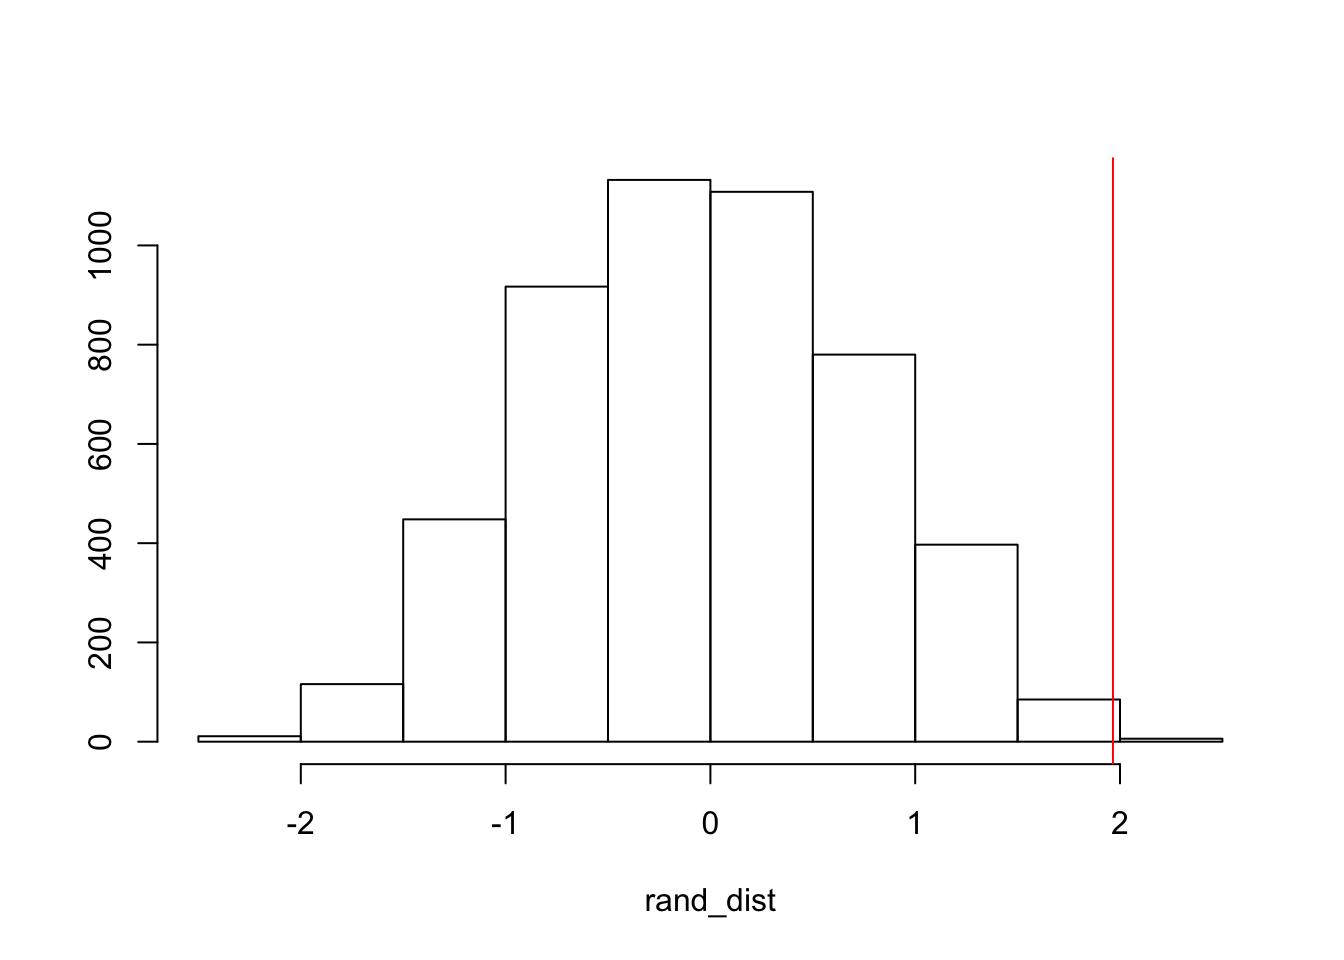
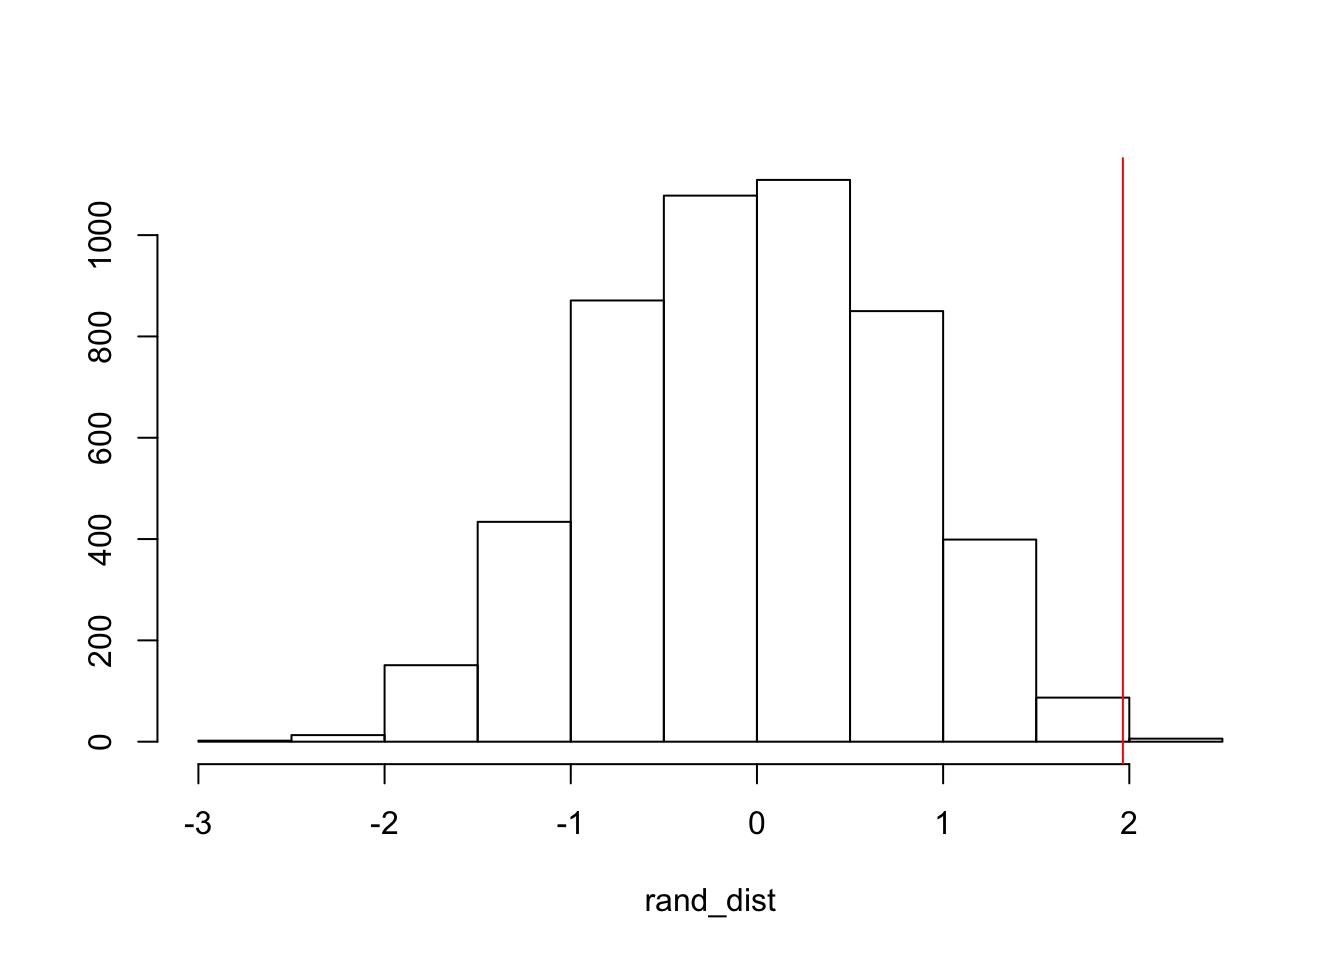
any message, but you must have a message

diff --git a/content/project2.html b/content/project2.html
@@ -1,7 +1,7 @@
 ---
 title: "Project 2:Modeling,Testing,and Predicting"
 author: "Yemariamwork Engidaw"
-date: "05/03/2020"
+date: "2020-05-03"
 output:
   pdf_document: default
   html_document: default
@@ -107,23 +107,23 @@ head(cron)</code></pre>
 <pre class="r"><code>head(perm1&lt;-data.frame(condition=cron$condition,adevent=sample(cron$adevent)))</code></pre>
 <pre><code>##   condition adevent
 ## 1   placebo       0
-## 2   placebo       2
-## 3   placebo       2
+## 2   placebo       4
+## 3   placebo       0
 ## 4   placebo       0
-## 5   placebo       0
-## 6   placebo       2</code></pre>
+## 5   placebo       2
+## 6   placebo       0</code></pre>
 <pre class="r"><code>perm1%&gt;%group_by(condition)%&gt;%summarize(means=mean(adevent))%&gt;%summarize(`mean_diff:`=diff(means))</code></pre>
 <pre><code>## # A tibble: 1 x 1
 ##   `mean_diff:`
 ##          &lt;dbl&gt;
-## 1         -0.6</code></pre>
+## 1          0.1</code></pre>
 <pre class="r"><code>rand_dist&lt;-vector()
 for(i in 1:5000){
 new&lt;-data.frame(adevent=sample(cron$adevent),condition=cron$condition)
 rand_dist[i]&lt;-mean(new[new$condition==&quot;d1&quot;,]$adevent)-
 mean(new[new$condition==&quot;placebo&quot;,]$adevent)}
 mean(rand_dist&gt;1.965542 | rand_dist&lt; -1.965542)</code></pre>
-<pre><code>## [1] 0.0038</code></pre>
+<pre><code>## [1] 0.0054</code></pre>
 <pre class="r"><code>{hist(rand_dist,main=&quot;&quot;,ylab=&quot;&quot;); abline(v = 1.965542,col=&quot;red&quot;)}</code></pre>
 <p><img src="/project2_files/figure-html/unnamed-chunk-2-2.png" width="672" /></p>
 <pre class="r"><code>t.test(data=cron,adevent~condition)</code></pre>
@@ -333,7 +333,7 @@ coef(fit)
 })
 samp_distn%&gt;%t%&gt;%as.data.frame%&gt;%summarize_all(sd)</code></pre>
 <pre><code>##   (Intercept)        BMI      weight   BMI:weight
-## 1  0.02988295 0.01076596 0.003337542 0.0002082247</code></pre>
+## 1  0.03061301 0.01084088 0.003341042 0.0002018651</code></pre>
 <pre class="r"><code>fit2&lt;-lm(nrAdvE.cat~BMI*weight,data=CrohnD1)
 summary(fit2)</code></pre>
 <pre><code>## 
@@ -367,15 +367,15 @@ coef(fit2)
 })
 resid_resamp%&gt;%t%&gt;%as.data.frame%&gt;%summarize_all(sd)</code></pre>
 <pre><code>##   (Intercept)         BMI      weight   BMI:weight
-## 1  0.02876237 0.009073605 0.003164596 0.0002299999</code></pre>
+## 1  0.02810296 0.009260475 0.003183604 0.0002330787</code></pre>
 <pre class="r"><code>resid_resamp%&gt;%t%&gt;%as.data.frame%&gt;%gather%&gt;%group_by(key)%&gt;% summarize(lower=quantile(value,.025), upper=quantile(value,0.975))</code></pre>
 <pre><code>## # A tibble: 4 x 3
 ##   key             lower     upper
 ##   &lt;chr&gt;           &lt;dbl&gt;     &lt;dbl&gt;
-## 1 (Intercept)  0.0617    0.173   
-## 2 BMI          0.0204    0.0572  
-## 3 BMI:weight  -0.000717  0.000163
-## 4 weight      -0.0150   -0.00235</code></pre>
+## 1 (Intercept)  0.0619    0.172   
+## 2 BMI          0.0194    0.0575  
+## 3 BMI:weight  -0.000719  0.000205
+## 4 weight      -0.0151   -0.00218</code></pre>
 <pre class="r"><code>coeftest(fit2)[,1:2]</code></pre>
 <pre><code>##                  Estimate   Std. Error
 ## (Intercept)  0.1135856789 0.0290633392
@@ -390,10 +390,10 @@ resid_resamp%&gt;%t%&gt;%as.data.frame%&gt;%summarize_all(sd)</code></pre>
 ## BMI:weight  -0.0003378149 0.0001728742</code></pre>
 <pre class="r"><code>samp_distn%&gt;%t%&gt;%as.data.frame%&gt;%summarize_all(sd)</code></pre>
 <pre><code>##   (Intercept)        BMI      weight   BMI:weight
-## 1  0.02988295 0.01076596 0.003337542 0.0002082247</code></pre>
+## 1  0.03061301 0.01084088 0.003341042 0.0002018651</code></pre>
 <pre class="r"><code>resid_resamp%&gt;%t%&gt;%as.data.frame%&gt;%summarize_all(sd)</code></pre>
 <pre><code>##   (Intercept)         BMI      weight   BMI:weight
-## 1  0.02876237 0.009073605 0.003164596 0.0002299999</code></pre>
+## 1  0.02810296 0.009260475 0.003183604 0.0002330787</code></pre>
 <p>I did not observe any changes in SEs when this regression model was reran to compute bootstrapped standard error. Furthermore, there were no changes in the p-value since both regression models produced very similar outputs.</p>
 <pre class="r"><code>#5.Logistic Regression Model
 

diff --git a/public/project2/index.html b/public/project2/index.html
@@ -61,7 +61,7 @@
         </div>
         <div class="blog-title">
           <h4>
-          January 1, 0001
+          May 3, 2020
             &nbsp;&nbsp;
             
           </h4>
@@ -170,23 +170,23 @@ head(cron)</code></pre>
 <pre class="r"><code>head(perm1&lt;-data.frame(condition=cron$condition,adevent=sample(cron$adevent)))</code></pre>
 <pre><code>##   condition adevent
 ## 1   placebo       0
-## 2   placebo       2
-## 3   placebo       2
+## 2   placebo       4
+## 3   placebo       0
 ## 4   placebo       0
-## 5   placebo       0
-## 6   placebo       2</code></pre>
+## 5   placebo       2
+## 6   placebo       0</code></pre>
 <pre class="r"><code>perm1%&gt;%group_by(condition)%&gt;%summarize(means=mean(adevent))%&gt;%summarize(`mean_diff:`=diff(means))</code></pre>
 <pre><code>## # A tibble: 1 x 1
 ##   `mean_diff:`
 ##          &lt;dbl&gt;
-## 1         -0.6</code></pre>
+## 1          0.1</code></pre>
 <pre class="r"><code>rand_dist&lt;-vector()
 for(i in 1:5000){
 new&lt;-data.frame(adevent=sample(cron$adevent),condition=cron$condition)
 rand_dist[i]&lt;-mean(new[new$condition==&quot;d1&quot;,]$adevent)-
 mean(new[new$condition==&quot;placebo&quot;,]$adevent)}
 mean(rand_dist&gt;1.965542 | rand_dist&lt; -1.965542)</code></pre>
-<pre><code>## [1] 0.0038</code></pre>
+<pre><code>## [1] 0.0054</code></pre>
 <pre class="r"><code>{hist(rand_dist,main=&quot;&quot;,ylab=&quot;&quot;); abline(v = 1.965542,col=&quot;red&quot;)}</code></pre>
 <p><img src="/project2_files/figure-html/unnamed-chunk-2-2.png" width="672" /></p>
 <pre class="r"><code>t.test(data=cron,adevent~condition)</code></pre>
@@ -396,7 +396,7 @@ coef(fit)
 })
 samp_distn%&gt;%t%&gt;%as.data.frame%&gt;%summarize_all(sd)</code></pre>
 <pre><code>##   (Intercept)        BMI      weight   BMI:weight
-## 1  0.02988295 0.01076596 0.003337542 0.0002082247</code></pre>
+## 1  0.03061301 0.01084088 0.003341042 0.0002018651</code></pre>
 <pre class="r"><code>fit2&lt;-lm(nrAdvE.cat~BMI*weight,data=CrohnD1)
 summary(fit2)</code></pre>
 <pre><code>## 
@@ -430,15 +430,15 @@ coef(fit2)
 })
 resid_resamp%&gt;%t%&gt;%as.data.frame%&gt;%summarize_all(sd)</code></pre>
 <pre><code>##   (Intercept)         BMI      weight   BMI:weight
-## 1  0.02876237 0.009073605 0.003164596 0.0002299999</code></pre>
+## 1  0.02810296 0.009260475 0.003183604 0.0002330787</code></pre>
 <pre class="r"><code>resid_resamp%&gt;%t%&gt;%as.data.frame%&gt;%gather%&gt;%group_by(key)%&gt;% summarize(lower=quantile(value,.025), upper=quantile(value,0.975))</code></pre>
 <pre><code>## # A tibble: 4 x 3
 ##   key             lower     upper
 ##   &lt;chr&gt;           &lt;dbl&gt;     &lt;dbl&gt;
-## 1 (Intercept)  0.0617    0.173   
-## 2 BMI          0.0204    0.0572  
-## 3 BMI:weight  -0.000717  0.000163
-## 4 weight      -0.0150   -0.00235</code></pre>
+## 1 (Intercept)  0.0619    0.172   
+## 2 BMI          0.0194    0.0575  
+## 3 BMI:weight  -0.000719  0.000205
+## 4 weight      -0.0151   -0.00218</code></pre>
 <pre class="r"><code>coeftest(fit2)[,1:2]</code></pre>
 <pre><code>##                  Estimate   Std. Error
 ## (Intercept)  0.1135856789 0.0290633392
@@ -453,10 +453,10 @@ resid_resamp%&gt;%t%&gt;%as.data.frame%&gt;%summarize_all(sd)</code></pre>
 ## BMI:weight  -0.0003378149 0.0001728742</code></pre>
 <pre class="r"><code>samp_distn%&gt;%t%&gt;%as.data.frame%&gt;%summarize_all(sd)</code></pre>
 <pre><code>##   (Intercept)        BMI      weight   BMI:weight
-## 1  0.02988295 0.01076596 0.003337542 0.0002082247</code></pre>
+## 1  0.03061301 0.01084088 0.003341042 0.0002018651</code></pre>
 <pre class="r"><code>resid_resamp%&gt;%t%&gt;%as.data.frame%&gt;%summarize_all(sd)</code></pre>
 <pre><code>##   (Intercept)         BMI      weight   BMI:weight
-## 1  0.02876237 0.009073605 0.003164596 0.0002299999</code></pre>
+## 1  0.02810296 0.009260475 0.003183604 0.0002330787</code></pre>
 <p>I did not observe any changes in SEs when this regression model was reran to compute bootstrapped standard error. Furthermore, there were no changes in the p-value since both regression models produced very similar outputs.</p>
 <pre class="r"><code>#5.Logistic Regression Model
 

diff --git a/content/project1.html b/content/project1.html
@@ -1,7 +1,7 @@
 ---
 title: "Project 1: SDS 348 Project: 1 Exploratory Data Analysis" 
 by: "Yemariamwork Engidaw (yde68)"
-Date: "03/15/2020"
+Date: "2020-03-15"
 output:
   pdf_document: default
   html_document: default
@@ -14,12 +14,12 @@ output:
 <div id="introduction-i-will-be-using-two-different-datasets-from-r-studio.-the-first-dataset-that-i-will-be-using-is-called-bad_drivers.-this-dataset-contains-51-observations-and-8-variables.-the-8-variables-are-num_drivers-perc_speeding-percent-of-drivers-that-were-speeding-perc_alchol-percent-of-fatal-collisons-due-to-alcohol-perc_not_distracted-percent-of-drivers-that-were-not-distracted-causing-a-fatal-collison-perc_no_previous-percent-of-drivers-with-no-previous-fatal-collisons-insurance_premiums-lossess-loss-incured-by-insurance-company.-the-second-dataset-that-i-will-be-using-is-called-us_rent_income.-it-contains-104-observations-and-4-variables.-the-4-variables-are-geoid-name-variable-rentincome-estimate-estimated-value-and-moe-90-margin-of-error.-i-chose-to-delete-the-variable-geoid-as-i-did-not-believe-it-to-be-a-significant-factor-since-state-is-already-a-variable.-despite-the-fact-that-these-two-variable-do-not-at-first-glance-appear-to-be-related-i-am-interested-in-seeing-if-there-are-any-correlations-between-the-number-of-drivers-per-state-and-the-average-incomerent-for-that-state." class="section level2">
 <h2>Introduction: I will be using two different datasets from R-studio. The first dataset that I will be using is called bad_drivers. This dataset contains 51 observations and 8 variables. The 8 variables are num_drivers, perc_speeding (percent of drivers that were speeding), perc_alchol (percent of fatal collisons due to alcohol), perc_not_distracted (percent of drivers that were not distracted causing a fatal collison), perc_no_previous (percent of drivers with no previous fatal collisons), insurance_premiums, lossess (loss incured by insurance company). The second dataset that I will be using is called “us_rent_income.” It contains 104 observations and 4 variables. The 4 variables are GEOID, NAME, variable (rent/income), estimate (estimated value) and moe (90% margin of error). I chose to delete the variable GEOID as I did not believe it to be a significant factor since state is already a variable. Despite the fact that these two variable do not at first glance appear to be related, I am interested in seeing if there are any correlations between the number of drivers per state and the average income/rent for that state.</h2>
 <pre class="r"><code>library(tidyverse)</code></pre>
-<pre><code>## ── Attaching packages ──────────────────────────────────────────── tidyverse 1.3.0 ──</code></pre>
+<pre><code>## ── Attaching packages ─────────────────────────────────────────────────── tidyverse 1.3.0 ──</code></pre>
 <pre><code>## ✓ ggplot2 3.3.0     ✓ purrr   0.3.4
 ## ✓ tibble  3.0.1     ✓ dplyr   0.8.5
 ## ✓ tidyr   1.0.3     ✓ stringr 1.4.0
 ## ✓ readr   1.3.1     ✓ forcats 0.5.0</code></pre>
-<pre><code>## ── Conflicts ─────────────────────────────────────────────── tidyverse_conflicts() ──
+<pre><code>## ── Conflicts ────────────────────────────────────────────────────── tidyverse_conflicts() ──
 ## x dplyr::filter()  masks stats::filter()
 ## x dplyr::lag()     masks stats::lag()
 ## x ggplot2::layer() masks latticeExtra::layer()</code></pre>

diff --git a/public/project1/index.html b/public/project1/index.html
@@ -61,7 +61,7 @@
         </div>
         <div class="blog-title">
           <h4>
-          January 1, 0001
+          March 15, 2020
             &nbsp;&nbsp;
             
           </h4>
@@ -75,12 +75,12 @@
 <div id="introduction-i-will-be-using-two-different-datasets-from-r-studio.-the-first-dataset-that-i-will-be-using-is-called-bad_drivers.-this-dataset-contains-51-observations-and-8-variables.-the-8-variables-are-num_drivers-perc_speeding-percent-of-drivers-that-were-speeding-perc_alchol-percent-of-fatal-collisons-due-to-alcohol-perc_not_distracted-percent-of-drivers-that-were-not-distracted-causing-a-fatal-collison-perc_no_previous-percent-of-drivers-with-no-previous-fatal-collisons-insurance_premiums-lossess-loss-incured-by-insurance-company.-the-second-dataset-that-i-will-be-using-is-called-us_rent_income.-it-contains-104-observations-and-4-variables.-the-4-variables-are-geoid-name-variable-rentincome-estimate-estimated-value-and-moe-90-margin-of-error.-i-chose-to-delete-the-variable-geoid-as-i-did-not-believe-it-to-be-a-significant-factor-since-state-is-already-a-variable.-despite-the-fact-that-these-two-variable-do-not-at-first-glance-appear-to-be-related-i-am-interested-in-seeing-if-there-are-any-correlations-between-the-number-of-drivers-per-state-and-the-average-incomerent-for-that-state." class="section level2">
 <h2>Introduction: I will be using two different datasets from R-studio. The first dataset that I will be using is called bad_drivers. This dataset contains 51 observations and 8 variables. The 8 variables are num_drivers, perc_speeding (percent of drivers that were speeding), perc_alchol (percent of fatal collisons due to alcohol), perc_not_distracted (percent of drivers that were not distracted causing a fatal collison), perc_no_previous (percent of drivers with no previous fatal collisons), insurance_premiums, lossess (loss incured by insurance company). The second dataset that I will be using is called “us_rent_income.” It contains 104 observations and 4 variables. The 4 variables are GEOID, NAME, variable (rent/income), estimate (estimated value) and moe (90% margin of error). I chose to delete the variable GEOID as I did not believe it to be a significant factor since state is already a variable. Despite the fact that these two variable do not at first glance appear to be related, I am interested in seeing if there are any correlations between the number of drivers per state and the average income/rent for that state.</h2>
 <pre class="r"><code>library(tidyverse)</code></pre>
-<pre><code>## ── Attaching packages ──────────────────────────────────────────── tidyverse 1.3.0 ──</code></pre>
+<pre><code>## ── Attaching packages ─────────────────────────────────────────────────── tidyverse 1.3.0 ──</code></pre>
 <pre><code>## ✓ ggplot2 3.3.0     ✓ purrr   0.3.4
 ## ✓ tibble  3.0.1     ✓ dplyr   0.8.5
 ## ✓ tidyr   1.0.3     ✓ stringr 1.4.0
 ## ✓ readr   1.3.1     ✓ forcats 0.5.0</code></pre>
-<pre><code>## ── Conflicts ─────────────────────────────────────────────── tidyverse_conflicts() ──
+<pre><code>## ── Conflicts ────────────────────────────────────────────────────── tidyverse_conflicts() ──
 ## x dplyr::filter()  masks stats::filter()
 ## x dplyr::lag()     masks stats::lag()
 ## x ggplot2::layer() masks latticeExtra::layer()</code></pre>

diff --git a/themes/hugo-sustain/layouts/index.html b/themes/hugo-sustain/layouts/index.html
@@ -8,7 +8,7 @@
        <img class="img-circle" src="{{ .Site.BaseURL }}img/{{ .Site.Params.avatar }}" alt="It me." height=200px width=200px >
         </div>
         <h3>I'm <strong>{{ .Site.Params.author }}</strong>, a first generation college student studying biology at the University of Texas at Austin. I was born in Gonder, Ethiopia but currently live in Round Rock, Texas.I have worked as a medical software assistant in the past as well as a medical scribe.I hope to attend medical school in the near future and specialize in cardiology.</h3>
-        <h3>I love all things computer science and maths.During my free time, I like to sing and volunteer in medical seetings</h3>
+        <h3>I love all things computer science and maths.During my free time, I like to sing and volunteer in medical settings</h3>
         <h3>Have a look at some of my working <a href="{{ .Site.BaseURL }}projects/"> projects</a>.</h3>
         <h3>For more information check out my academic &amp; professional <a href="resume.pdf" target="_blank">resume</a>.</h3>
         <h3>Contact me at <a href="http://twitter.com/{{ .Site.Params.Social.Twitter }}">@{{ .Site.Params.Social.Twitter }}</a> or by <a href="mailto:{{ .Site.Params.Social.Email }}">email</a>.</h3>

diff --git a/public/index.html b/public/index.html
@@ -56,7 +56,7 @@
        <img class="img-circle" src="/img/profilepic.png" alt="It me." height=200px width=200px >
         </div>
         <h3>I'm <strong>Yemariamwork Engidaw</strong>, a first generation college student studying biology at the University of Texas at Austin. I was born in Gonder, Ethiopia but currently live in Round Rock, Texas.I have worked as a medical software assistant in the past as well as a medical scribe.I hope to attend medical school in the near future and specialize in cardiology.</h3>
-        <h3>I love all things computer science and maths.During my free time, I like to sing and volunteer in medical seetings</h3>
+        <h3>I love all things computer science and maths.During my free time, I like to sing and volunteer in medical settings</h3>
         <h3>Have a look at some of my working <a href="/projects/"> projects</a>.</h3>
         <h3>For more information check out my academic &amp; professional <a href="resume.pdf" target="_blank">resume</a>.</h3>
         <h3>Contact me at <a href="http://twitter.com/YEngidaw">@YEngidaw</a> or by <a href="mailto:mariengidaw@yahoo.com">email</a>.</h3>
